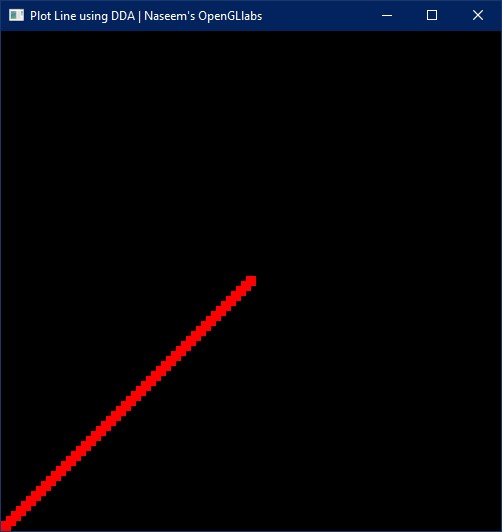
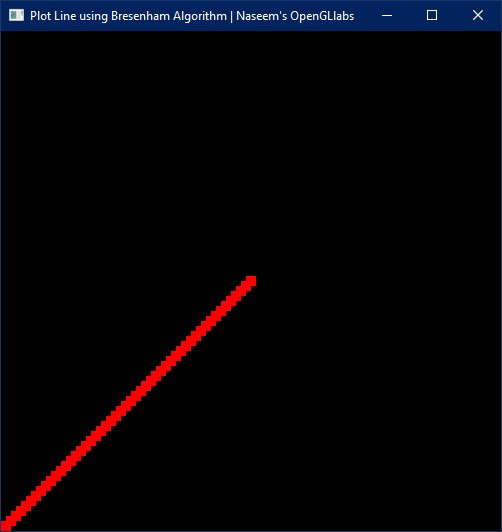
Updated Bresenham

Changed region(s): [[0.239, 0.0, 0.7171, 0.0602]]

diff --git a/L105/bresenham.py b/L105/bresenham.py
@@ -61,7 +61,7 @@ def main():
             glutInitDisplayMode(GLUT_RGB)
             glutInitWindowSize(500,500)
             glutInitWindowPosition(0,0)
-            glutCreateWindow("Plot Line using DDA | Naseem's OpenGLlabs")
+            glutCreateWindow("Plot Line using Bresenham Algorithm | Naseem's OpenGLlabs")
             glutDisplayFunc(lambda: plotLine(x1,y1,x2,y2)) # Refer RE1013 for why the use of lambda
             glutIdleFunc(lambda: plotLine(x1,y1,x2,y2))
             init()

diff --git a/README.md b/README.md
@@ -10,7 +10,7 @@ Reference page: https://github.com/naseemshah/OpenGLlabs/Refrences
 
     Each program is logged as they are committed. Use this section to find programs easily. (Latest first).
 
-- ## L104: Line Algorithm: DDA
+- ## L105: Line Algorithm: Bresenham
     
     Description: A program to draw a line using Bresenham Algorithm
 
